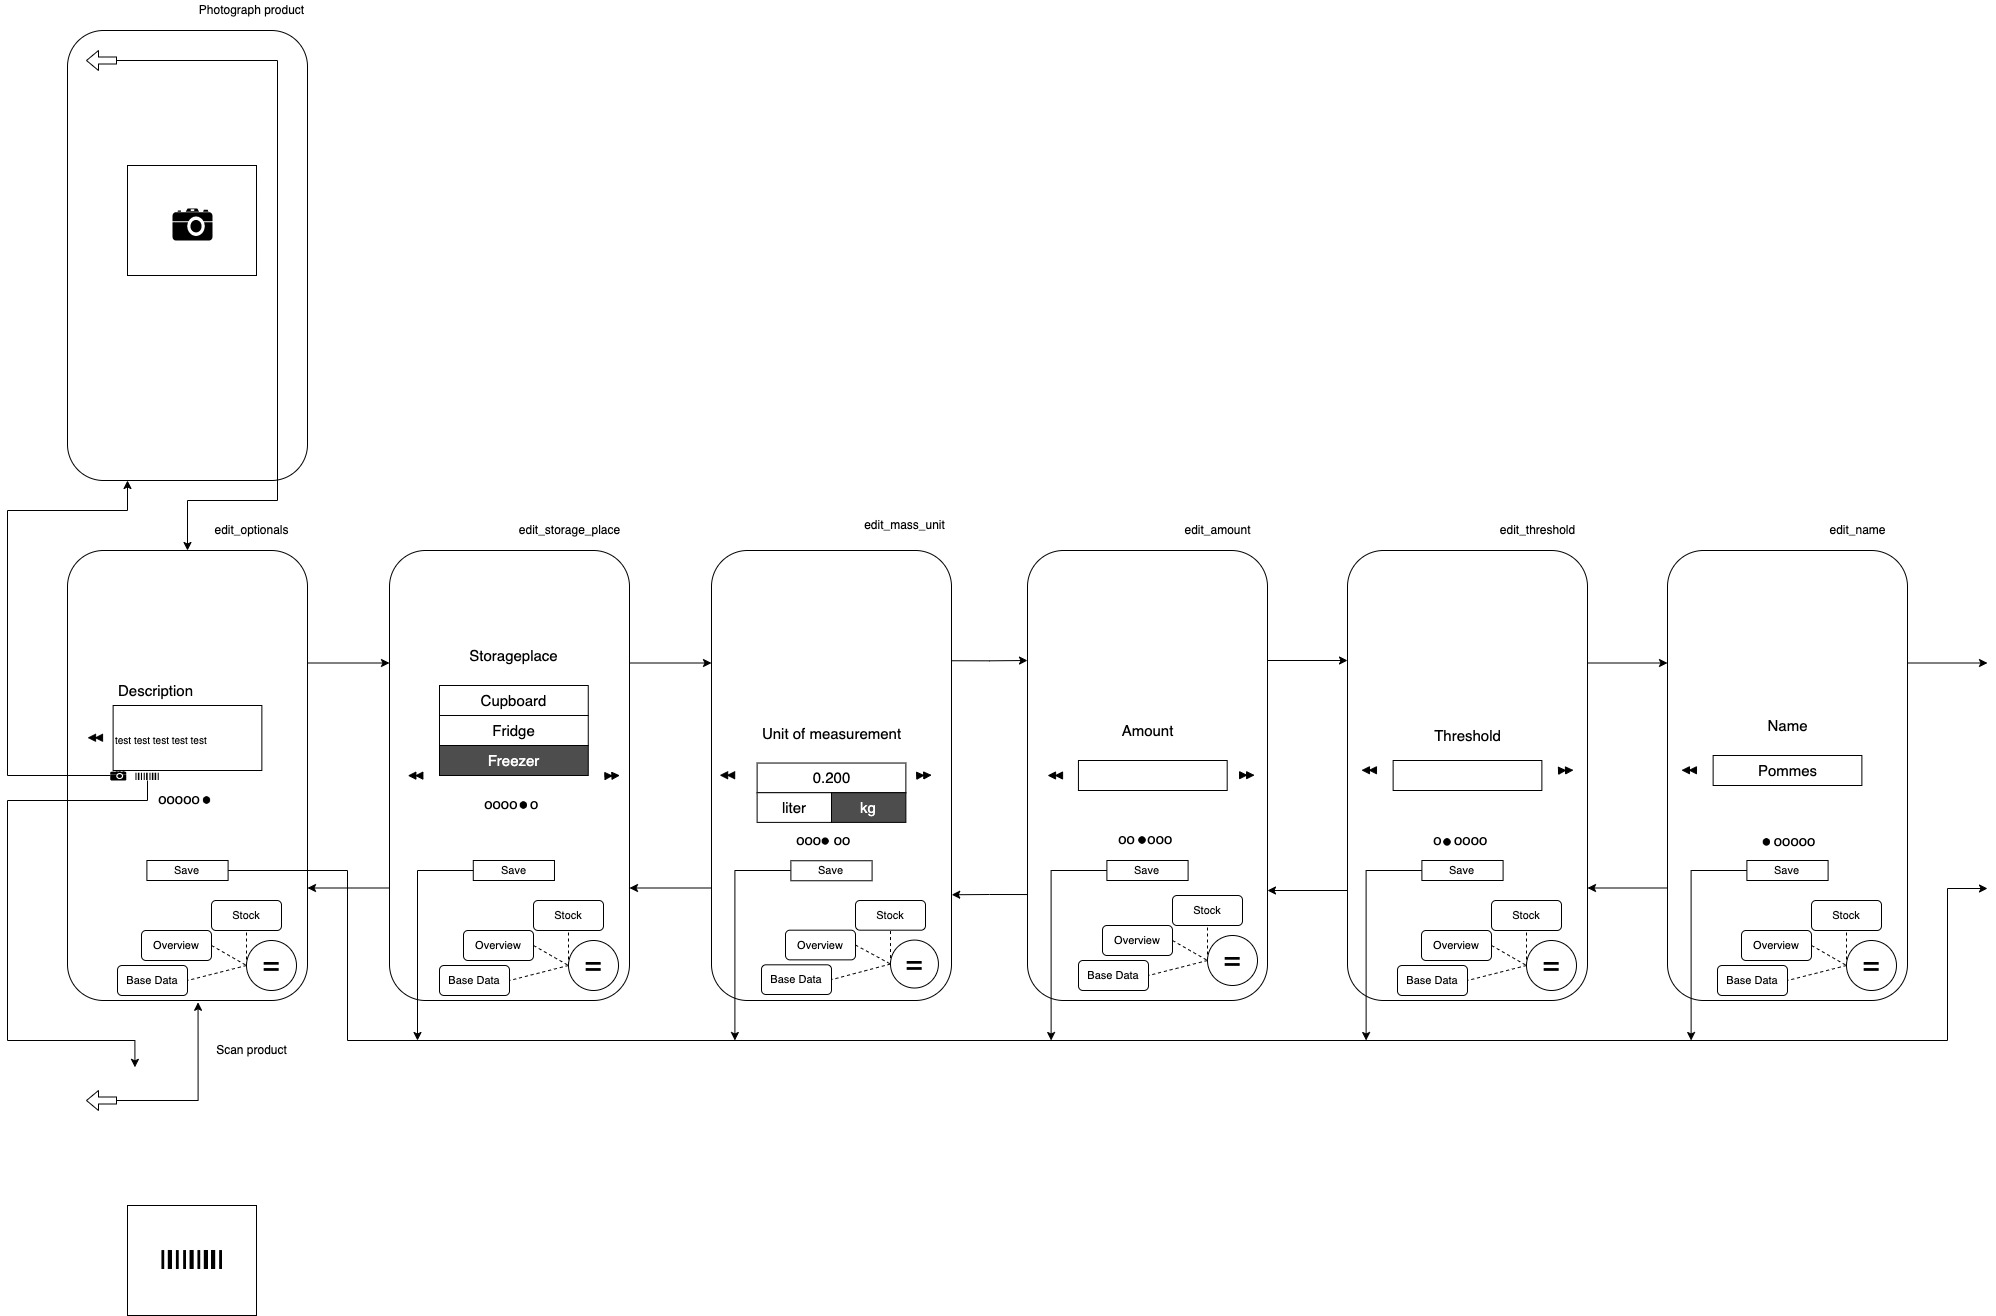
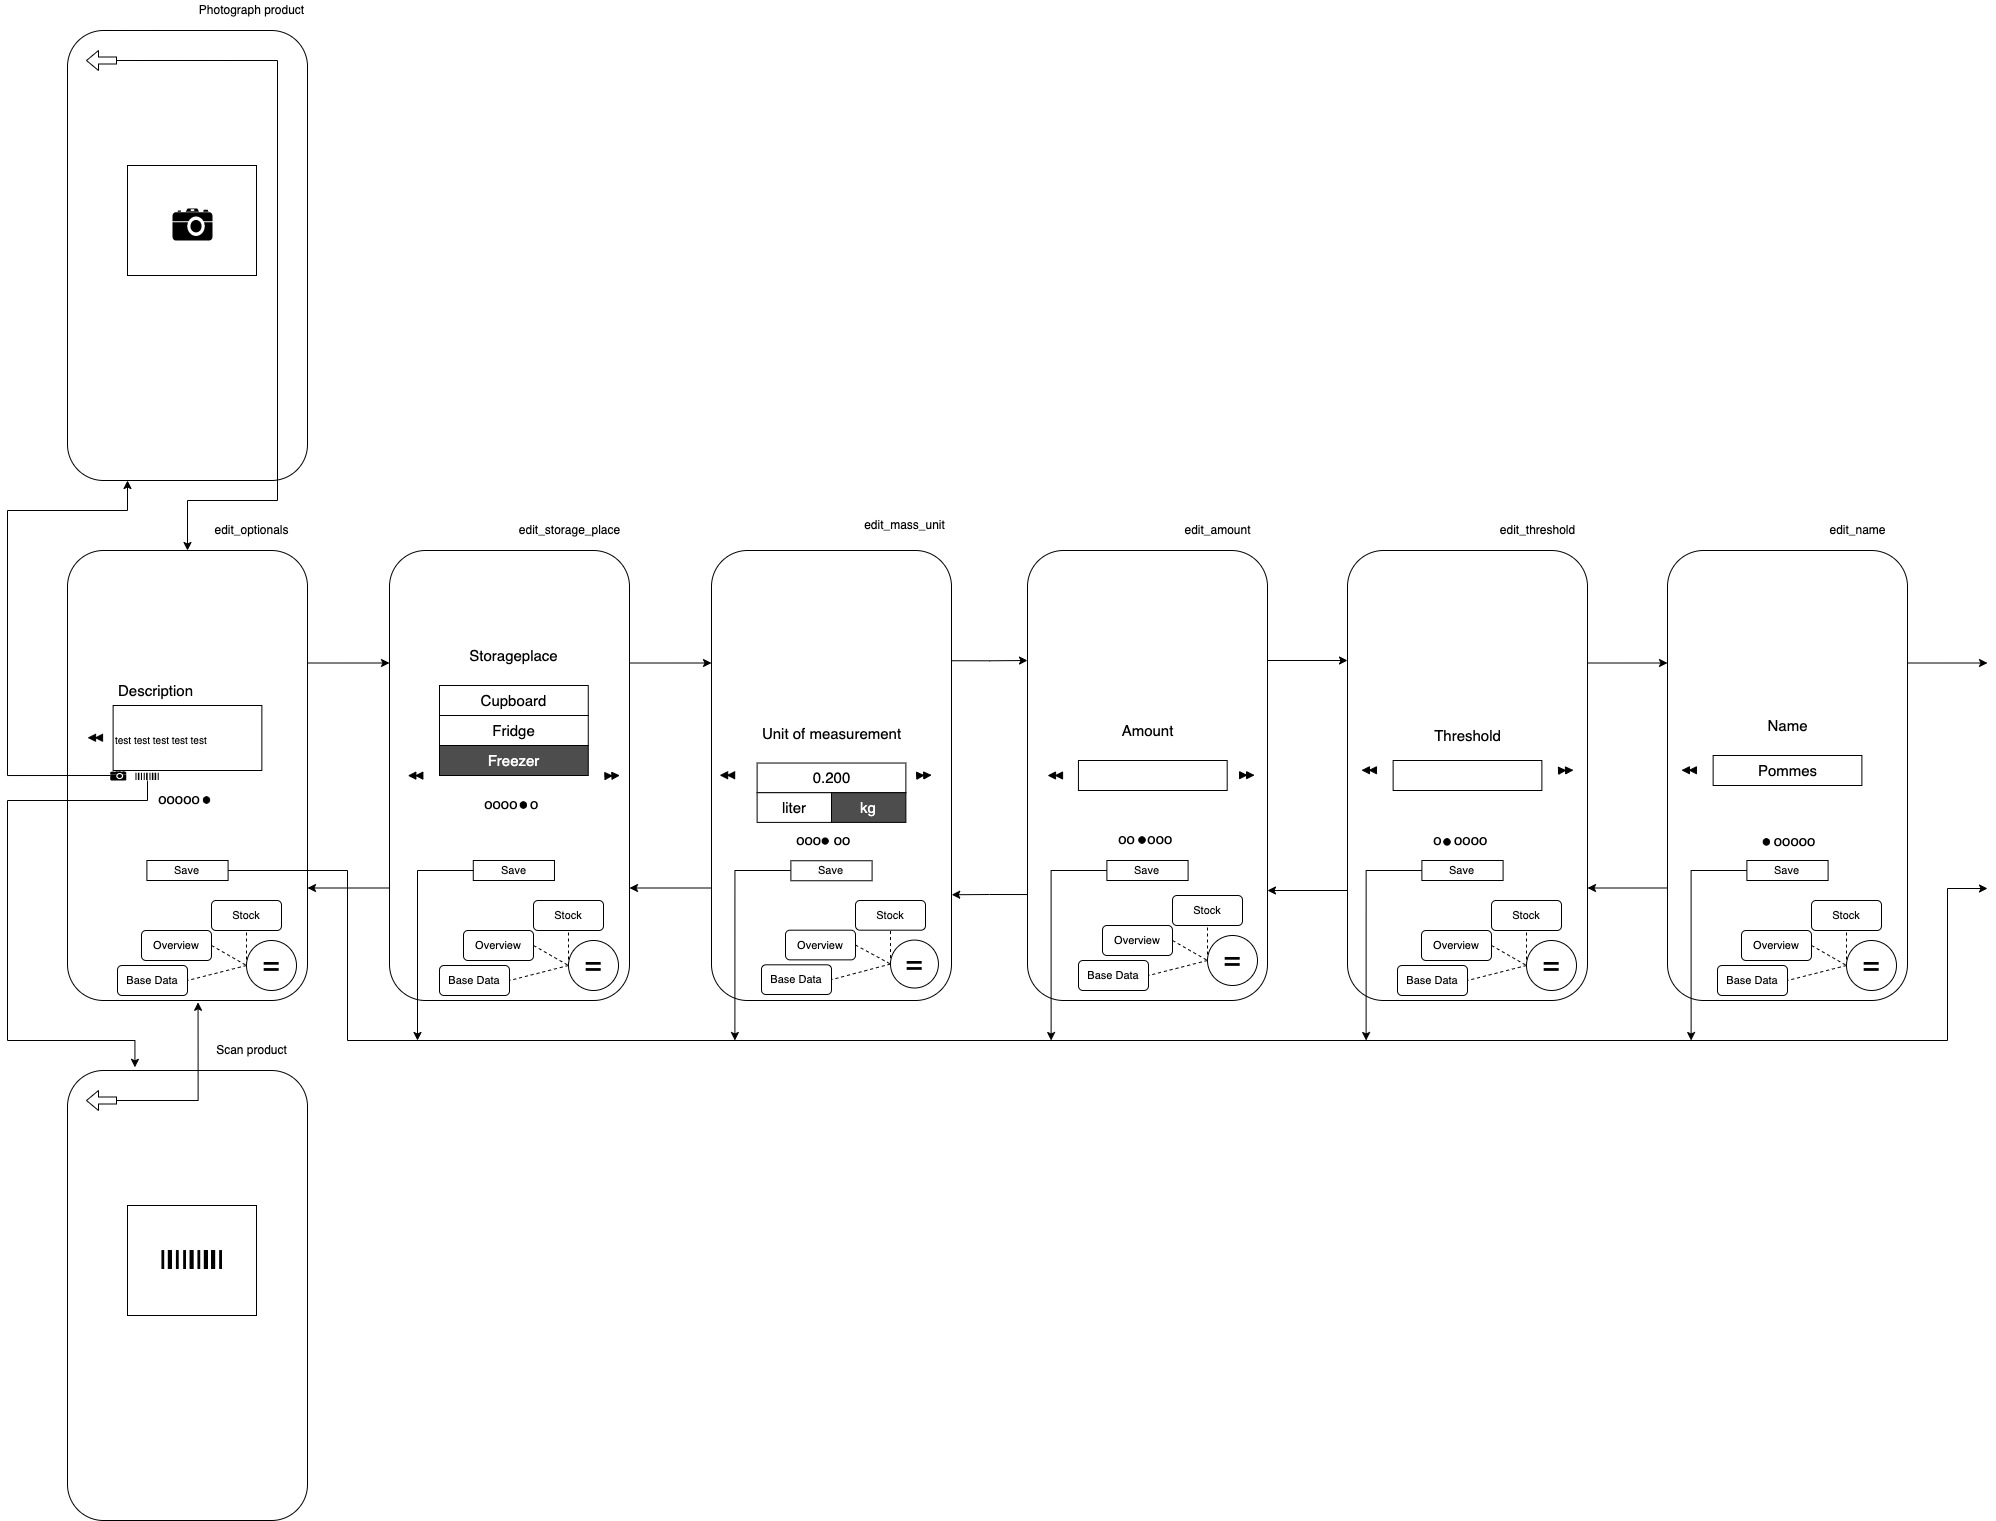
updated docs and readme

diff --git a/README.md b/README.md
@@ -10,15 +10,15 @@
 ### Main Screens
 ![MainScreens](docs/MainScreens.jpg)
 <p>
-<b>Base Data:</b>
+<b>base_data_page:</b>
 This screen provides an overview of the products available through the database (e.g., Firebase), the possibility to add/change/delete such products, a search bar, and a menu to switch between the main screens.
 </p>
 <p>
-<b>Overview:</b>
+<b>overview_page:</b>
 This screen provides an overview of the stock items which are out or almost out (controlled due to the threshold field in each product) and a menu to switch between the main screens.
 </p>
 <p>
-<b>Stock:</b>
+<b>stock_page:</b>
 This screen provides an overview of the stock items, the possibility to add items to the stock through scanning the barcode or directly from the database, and a menu to switch between the main screens.
 </p>
 <br></br>
@@ -26,7 +26,7 @@ This screen provides an overview of the stock items, the possibility to add item
 ### Stock Interaction
 ![MainScreens](docs/StockInteraction.jpg)
 <p>
-<b>Add product:</b>
+<b>stock_page:</b>
 TODO
 </p>
 <p>
@@ -38,35 +38,39 @@ TODO
 ### Add Products
 ![MainScreens](docs/NewProduct.jpg)
 <p>
-<b>Add product name:</b>
+<b>new_name:</b>
 TODO
 </p>
 <p>
-<b>Add product threshold:</b>
+<b>new_threshold:</b>
 TODO
 </p>
 <p>
-<b>Add product unit measurement:</b>
+<b>new_amount:</b>
 TODO
 </p>
 <p>
-<b>Add product storage place:</b>
+<b>new_mass_unit:</b>
 TODO
 </p>
 <p>
-<b>Add product optionals:</b>
+<b>new_storage_place:</b>
 TODO
 </p>
 <p>
-<b>Scan product:</b>
+<b>new_optionals:</b>
 TODO
 </p>
 <p>
-<b>Add description:</b>
+<b>new_scan:</b>
 TODO
 </p>
 <p>
-<b>Photograph product:</b>
+<b>new_description:</b>
+TODO
+</p>
+<p>
+<b>new_photo:</b>
 TODO
 </p>
 <br></br>
@@ -74,23 +78,27 @@ TODO
 ### Edit/Delete Products
 ![MainScreens](docs/EditProduct.jpg)
 <p>
-<b>Edit product name:</b>
+<b>edit_name:</b>
 TODO
 </p>
 <p>
-<b>Edit product threshold:</b>
+<b>edit_threshold:</b>
 TODO
 </p>
 <p>
-<b>Edit product unit measurement:</b>
+<b>edit_amount:</b>
 TODO
 </p>
 <p>
-<b>Edit product storage place:</b>
+<b>edit_mass_unit:</b>
 TODO
 </p>
 <p>
-<b>Edit product optionals:</b>
+<b>edit_storage_place:</b>
+TODO
+</p>
+<p>
+<b>edit_optionals:</b>
 TODO
 </p>
 <p>
@@ -98,7 +106,7 @@ TODO
 TODO
 </p>
 <p>
-<b>Edit description:</b>
+<b>edit_description:</b>
 TODO
 </p>
 <p>
